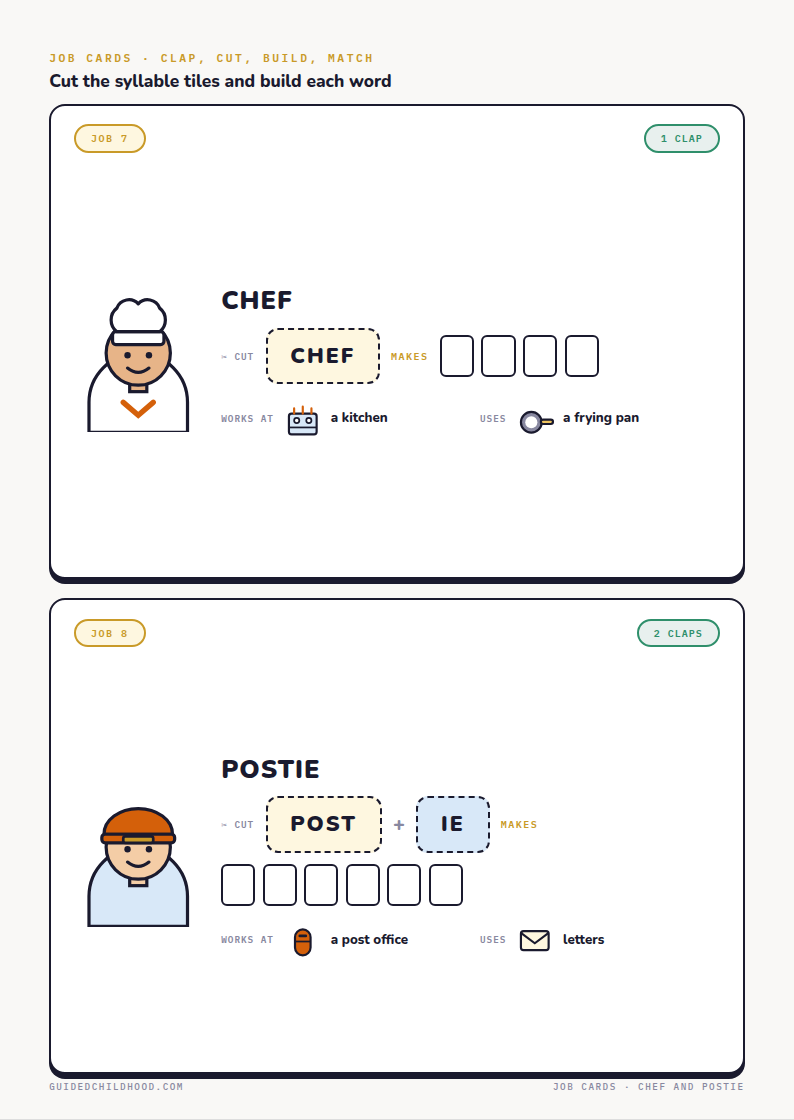
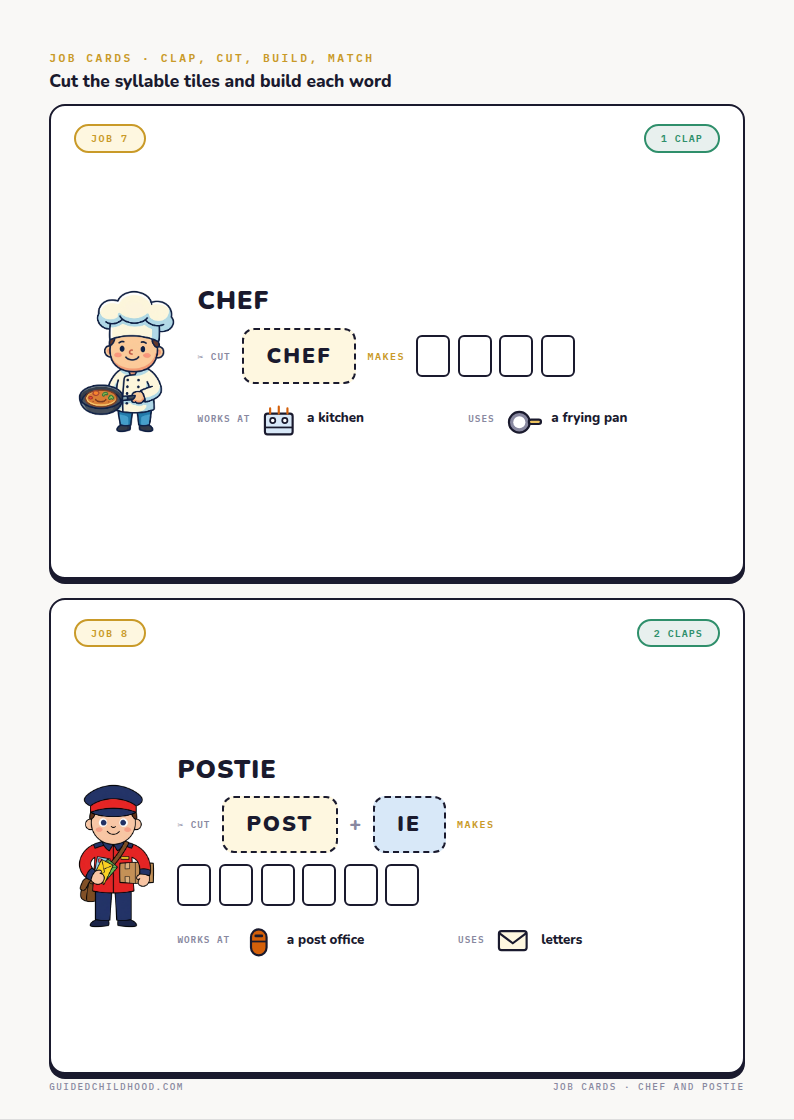
Real Higgsfield worker art on What Do They Do colour cards
Swap the basic SVG workers for premium flat illustrations on six of the
eight job cards in the colour edition: farmer, teacher, builder, vet, chef
and postie. The colour in edition keeps the bold SVG line art so children
still colour clean outlines, so one print.html renders both.

Illustrations were generated in the house preschool card style, cleaned to
transparent backgrounds and tight cropped by a canvas processor (the grey
card frames on builder and vet are removed). Baker and doctor keep the SVG
worker for now: the first baker render never synced and both doctor renders
were flawed, so clean replacements are queued and will drop into
images/jobs/clean when synced.

Claude-Session: https://claude.ai/code/session_01UM68MzWrL1nbc1mHRhdqVp

diff --git a/content/printables/what-do-they-do/print.html b/content/printables/what-do-they-do/print.html
@@ -53,6 +53,11 @@
   .jobhead{display:flex;justify-content:space-between;align-items:center;}
   .jobbody{display:flex;gap:5mm;margin-top:3mm;flex:1;align-items:center;}
   .worker-svg{width:34mm;height:auto;flex:none;}
+  /* Real illustrated worker (colour edition). Line art SVG stays for colour in. */
+  .worker-photo{height:40mm;width:auto;max-width:38mm;object-fit:contain;flex:none;
+    align-self:center;display:none;}
+  body:not(.colourin) .worker-photo{display:block;}
+  body:not(.colourin) .jobcard.has-photo .worker-svg{display:none;}
   .jobmain{flex:1;display:flex;flex-direction:column;gap:2.5mm;}
   .jobname{font-weight:900;font-size:19pt;letter-spacing:1px;color:var(--ink);}
   .tilerow{display:flex;align-items:center;gap:3mm;flex-wrap:wrap;}
@@ -295,9 +300,10 @@
   <h3 style="margin-top:2mm;margin-bottom:3mm;">Cut the syllable tiles and build each word</h3>
 
   <!-- JOB 3 FARMER -->
-  <div class="jobcard">
+  <div class="jobcard has-photo">
     <div class="jobhead"><span class="zchip">Job 3</span><span class="claps">2 claps</span></div>
     <div class="jobbody">
+      <img class="worker-photo" src="images/jobs/clean/farmer.png" alt="A friendly farmer holding a basket of fresh vegetables">
       <svg class="art worker-svg" viewBox="0 0 120 132">
         <path class="noline" d="M14 132 V104 a46 46 0 0 1 92 0 V132 Z" fill="var(--green)" stroke="var(--ink)" stroke-width="3"/>
         <rect x="52" y="74" width="16" height="20" fill="var(--skin)" stroke="var(--ink)" stroke-width="3"/>
@@ -331,9 +337,10 @@
   <div style="height:5mm;"></div>
 
   <!-- JOB 4 TEACHER -->
-  <div class="jobcard">
+  <div class="jobcard has-photo">
     <div class="jobhead"><span class="zchip">Job 4</span><span class="claps">2 claps</span></div>
     <div class="jobbody">
+      <img class="worker-photo" src="images/jobs/clean/teacher.png" alt="A friendly teacher with an open book and a chalkboard">
       <svg class="art worker-svg" viewBox="0 0 120 132">
         <path class="noline" d="M14 132 V104 a46 46 0 0 1 92 0 V132 Z" fill="var(--coral)" stroke="var(--ink)" stroke-width="3"/>
         <rect x="52" y="74" width="16" height="20" fill="var(--skin2)" stroke="var(--ink)" stroke-width="3"/>
@@ -372,9 +379,10 @@
   <h3 style="margin-top:2mm;margin-bottom:3mm;">Cut the syllable tiles and build each word</h3>
 
   <!-- JOB 5 BUILDER -->
-  <div class="jobcard">
+  <div class="jobcard has-photo">
     <div class="jobhead"><span class="zchip">Job 5</span><span class="claps">2 claps</span></div>
     <div class="jobbody">
+      <img class="worker-photo" src="images/jobs/clean/builder.png" alt="A friendly builder in a hard hat and hi vis vest holding a hammer">
       <svg class="art worker-svg" viewBox="0 0 120 132">
         <path class="noline" d="M14 132 V104 a46 46 0 0 1 92 0 V132 Z" fill="var(--terracotta)" stroke="var(--ink)" stroke-width="3"/>
         <rect x="52" y="74" width="16" height="20" fill="var(--skin)" stroke="var(--ink)" stroke-width="3"/>
@@ -409,9 +417,10 @@
   <div style="height:5mm;"></div>
 
   <!-- JOB 6 VET -->
-  <div class="jobcard">
+  <div class="jobcard has-photo">
     <div class="jobhead"><span class="zchip">Job 6</span><span class="claps">1 clap</span></div>
     <div class="jobbody">
+      <img class="worker-photo" src="images/jobs/clean/vet.png" alt="A friendly vet gently holding a happy puppy">
       <svg class="art worker-svg" viewBox="0 0 120 132">
         <path class="noline" d="M14 132 V104 a46 46 0 0 1 92 0 V132 Z" fill="var(--tint-sage)" stroke="var(--ink)" stroke-width="3"/>
         <path class="keep" d="M60 100 l3 6 6 1 -4.5 4.5 1 6.5 -5.5 -3 -5.5 3 1 -6.5 -4.5 -4.5 6 -1z" fill="var(--ink)"/>
@@ -451,9 +460,10 @@
   <h3 style="margin-top:2mm;margin-bottom:3mm;">Cut the syllable tiles and build each word</h3>
 
   <!-- JOB 7 CHEF -->
-  <div class="jobcard">
+  <div class="jobcard has-photo">
     <div class="jobhead"><span class="zchip">Job 7</span><span class="claps">1 clap</span></div>
     <div class="jobbody">
+      <img class="worker-photo" src="images/jobs/clean/chef.png" alt="A friendly chef in whites and a tall hat holding a frying pan">
       <svg class="art worker-svg" viewBox="0 0 120 132">
         <path class="noline" d="M14 132 V104 a46 46 0 0 1 92 0 V132 Z" fill="var(--white)" stroke="var(--ink)" stroke-width="3"/>
         <path d="M46 104 l14 12 14 -12" fill="none" stroke="var(--coral)" stroke-width="5" stroke-linecap="round"/>
@@ -488,9 +498,10 @@
   <div style="height:5mm;"></div>
 
   <!-- JOB 8 POSTIE -->
-  <div class="jobcard">
+  <div class="jobcard has-photo">
     <div class="jobhead"><span class="zchip">Job 8</span><span class="claps">2 claps</span></div>
     <div class="jobbody">
+      <img class="worker-photo" src="images/jobs/clean/postie.png" alt="A friendly postie in a red and navy uniform carrying letters and a parcel">
       <svg class="art worker-svg" viewBox="0 0 120 132">
         <path class="noline" d="M14 132 V104 a46 46 0 0 1 92 0 V132 Z" fill="var(--tint-blue)" stroke="var(--ink)" stroke-width="3"/>
         <rect x="52" y="74" width="16" height="20" fill="var(--skin)" stroke="var(--ink)" stroke-width="3"/>

diff --git a/content/printables/what-do-they-do/README.md b/content/printables/what-do-they-do/README.md
@@ -53,8 +53,26 @@ Syllable splits use spaces, never hyphens. UK spelling and UK jobs throughout
 D to 7, E to 2, F to 6, G to 3, H to 5.** Both the answer key on page 2 and the
 shuffled tool column on page 7 were cross checked against each worker's card.
 
+## Worker illustrations (colour edition)
+The colour edition job cards use real Higgsfield illustrations (nano_banana,
+flat premium preschool card style, UK jobs) in `images/jobs/clean/`, cleaned to
+transparent backgrounds and tight cropped by the canvas processor (grey card
+frames removed from builder and vet). The colour in edition keeps the bold SVG
+line art so children colour clean outlines, so both editions coexist in one
+print.html (CSS: `.jobcard.has-photo .worker-svg` is hidden in colour mode,
+`.worker-photo` is hidden in colour in mode).
+
+Six jobs are illustrated: farmer, teacher, builder, vet, chef, postie. Baker and
+doctor still fall back to the SVG worker in colour mode: the first baker render
+never synced to Drive and both doctor renders were flawed (one framed bust, one
+with baked in text). Clean replacements are queued in Higgsfield (baker job
+`8cd8281d`, doctor job `29c44a10`); once synced to the Drive folder and dropped
+into `images/jobs/clean/` as `baker.png` and `doctor.png`, add `has-photo` plus a
+`worker-photo` img to job cards 1 and 2 and rebuild.
+
 ## Assets
 - `images/Zara.png` — Zara's real character art (cover and avatar).
+- `images/jobs/clean/*.png` — cleaned Higgsfield worker illustrations (6 jobs).
 - `images/preview-page-N.png` — colour edition page previews (1 to 9).
 - `images/colour-in-preview-page-N.png` — colour in previews (1 to 10, tips is 10).
 - `fonts/` — Nunito and IBM Plex Mono, local, via local-fonts.css.